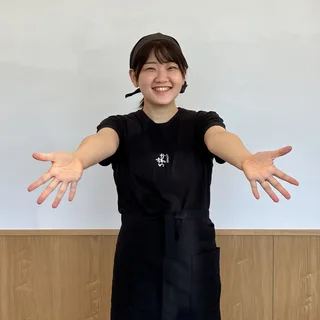
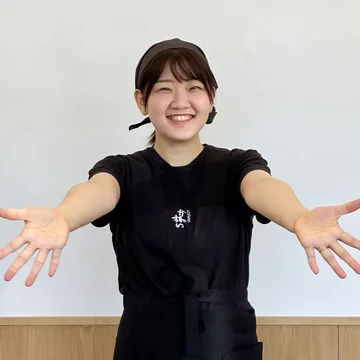
店長の写真を明るい版に差し替え、アップめ・少し大きく表示

diff --git a/index.html b/index.html
@@ -532,8 +532,8 @@ body{padding-bottom:70px}
 .bd .bd__term::after{border-top-color:#d94a6a}
 .bd__hb{margin-top:22px;font-family:var(--futura);font-weight:700;font-size:min(34px,8.6vw);letter-spacing:.04em;line-height:1;color:#d94a6a}
 .bd__face{margin-top:14px}
-.bd__face img{display:block;width:96px;height:96px;margin:0 auto;border-radius:50%;object-fit:cover;border:4px solid #fff;box-shadow:0 4px 12px rgba(150,40,60,.25)}
-@media (min-width:900px){.bd__face{margin-top:20px}.bd__face img{width:130px;height:130px;border-width:5px}}
+.bd__face img{display:block;width:124px;height:124px;margin:0 auto;border-radius:50%;object-fit:cover;border:4px solid #fff;box-shadow:0 4px 12px rgba(150,40,60,.25)}
+@media (min-width:900px){.bd__face{margin-top:20px}.bd__face img{width:170px;height:170px;border-width:5px}}
 .bd__ttl{margin-top:14px;font-family:var(--goth);font-weight:900;line-height:1.2}
 .bd__ttl small{display:block;font-size:20px;letter-spacing:.06em;color:var(--ink)}
 .bd__ne{display:block;margin-top:14px;font-size:min(20px,5.2vw);letter-spacing:.06em;color:#d94a6a}
@@ -1026,7 +1026,7 @@ body{padding-bottom:70px}
     <div class="bd__balloons" aria-hidden="true"><span class="bd__bal bd__bal--1"><svg viewBox="0 0 60 120" aria-hidden="true"><path d="M30 76 C27 88 34 96 29 108 C26 114 31 118 30 120" fill="none" stroke="#c9b9a6" stroke-width="1.2"/><ellipse cx="30" cy="36" rx="24" ry="30" fill="#c8201a"/><path d="M26 66 l4 9 l4 -9z" fill="#c8201a"/><ellipse cx="21" cy="24" rx="5" ry="9" fill="#ff8a80" opacity=".55" transform="rotate(-20 21 24)"/></svg></span><span class="bd__bal bd__bal--2"><svg viewBox="0 0 60 120" aria-hidden="true"><path d="M30 76 C27 88 34 96 29 108 C26 114 31 118 30 120" fill="none" stroke="#c9b9a6" stroke-width="1.2"/><ellipse cx="30" cy="36" rx="24" ry="30" fill="#e0b64a"/><path d="M26 66 l4 9 l4 -9z" fill="#e0b64a"/><ellipse cx="21" cy="24" rx="5" ry="9" fill="#fff3c4" opacity=".55" transform="rotate(-20 21 24)"/></svg></span><span class="bd__bal bd__bal--3"><svg viewBox="0 0 60 120" aria-hidden="true"><path d="M30 76 C27 88 34 96 29 108 C26 114 31 118 30 120" fill="none" stroke="#c9b9a6" stroke-width="1.2"/><ellipse cx="30" cy="36" rx="24" ry="30" fill="#ffffff"/><path d="M26 66 l4 9 l4 -9z" fill="#ffffff"/><ellipse cx="21" cy="24" rx="5" ry="9" fill="#ffffff" opacity=".55" transform="rotate(-20 21 24)"/></svg></span><span class="bd__bal bd__bal--4"><svg viewBox="0 0 60 120" aria-hidden="true"><path d="M30 76 C27 88 34 96 29 108 C26 114 31 118 30 120" fill="none" stroke="#c9b9a6" stroke-width="1.2"/><ellipse cx="30" cy="36" rx="24" ry="30" fill="#d94a6a"/><path d="M26 66 l4 9 l4 -9z" fill="#d94a6a"/><ellipse cx="21" cy="24" rx="5" ry="9" fill="#ffc1cc" opacity=".55" transform="rotate(-20 21 24)"/></svg></span><span class="bd__bal bd__bal--5"><svg viewBox="0 0 60 120" aria-hidden="true"><path d="M30 76 C27 88 34 96 29 108 C26 114 31 118 30 120" fill="none" stroke="#c9b9a6" stroke-width="1.2"/><ellipse cx="30" cy="36" rx="24" ry="30" fill="#e0b64a"/><path d="M26 66 l4 9 l4 -9z" fill="#e0b64a"/><ellipse cx="21" cy="24" rx="5" ry="9" fill="#fff3c4" opacity=".55" transform="rotate(-20 21 24)"/></svg></span><span class="bd__bal bd__bal--6"><svg viewBox="0 0 60 120" aria-hidden="true"><path d="M30 76 C27 88 34 96 29 108 C26 114 31 118 30 120" fill="none" stroke="#c9b9a6" stroke-width="1.2"/><ellipse cx="30" cy="36" rx="24" ry="30" fill="#c8201a"/><path d="M26 66 l4 9 l4 -9z" fill="#c8201a"/><ellipse cx="21" cy="24" rx="5" ry="9" fill="#ff8a80" opacity=".55" transform="rotate(-20 21 24)"/></svg></span></div>
     <p class="mara__term bd__term">11/9<small>(月)</small>0:00 – 23:59</p>
     <p class="bd__hb">Happy Birthday!</p>
-    <p class="bd__face"><img decoding="async" src="img/tencho.webp" alt="店長" width="320" height="320" loading="lazy"></p>
+    <p class="bd__face"><img decoding="async" src="img/tencho.webp?v=2" alt="店長" width="360" height="360" loading="lazy"></p>
     <h2 class="bd__ttl"><small>店長の誕生日を記念して</small><span class="bd__ne">＼エントリー不要／</span><span class="bd__p"><span class="bd__p2">店内全品<br class="pc">ポイント</span><b>10</b><span class="bd__x">倍</span></span></h2>
     <p><span class="st" data-start="2026-11-09T00:00" data-end="2026-11-09T23:59"></span></p>
     <p class="bd__txt">11月9日は店長の誕生日。<br>いつもかわすいを選んでくださる皆さまへ、<br class="sp">感謝をこめて1日限定で全品ポイント10倍！<br>エントリー不要、<br class="sp">お買い物するだけでポイント10倍になります。</p>
